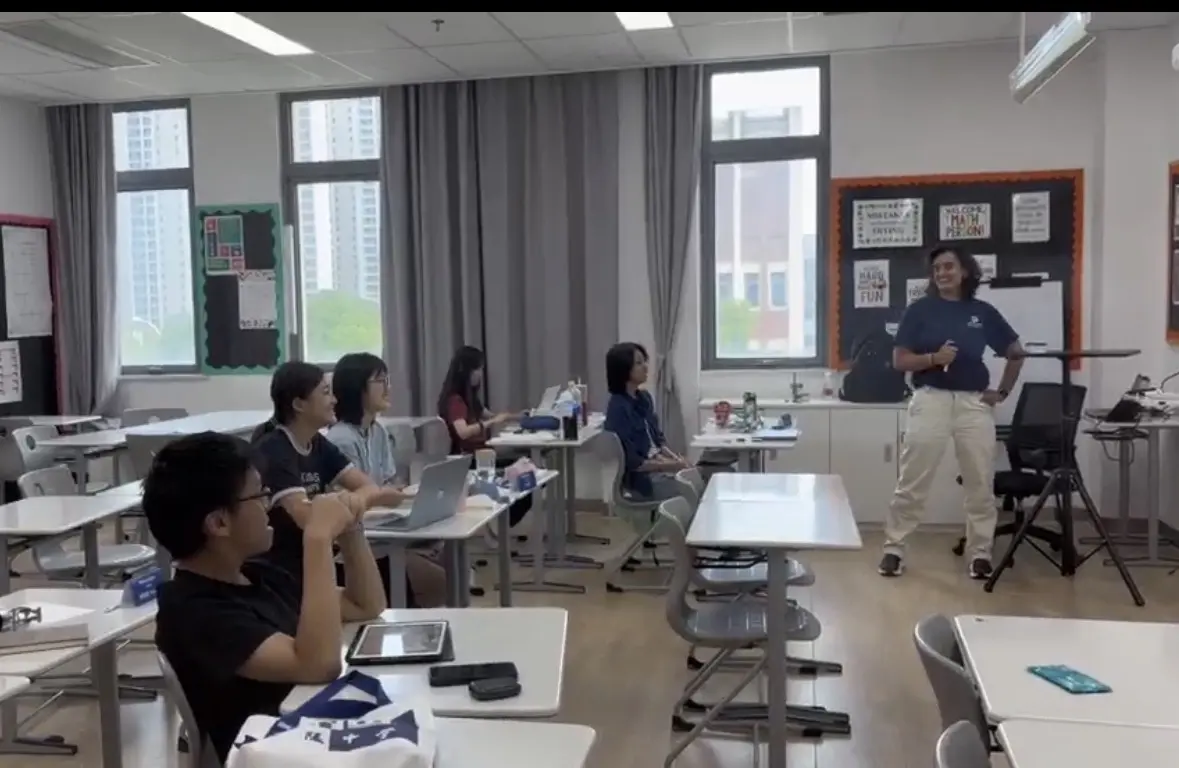
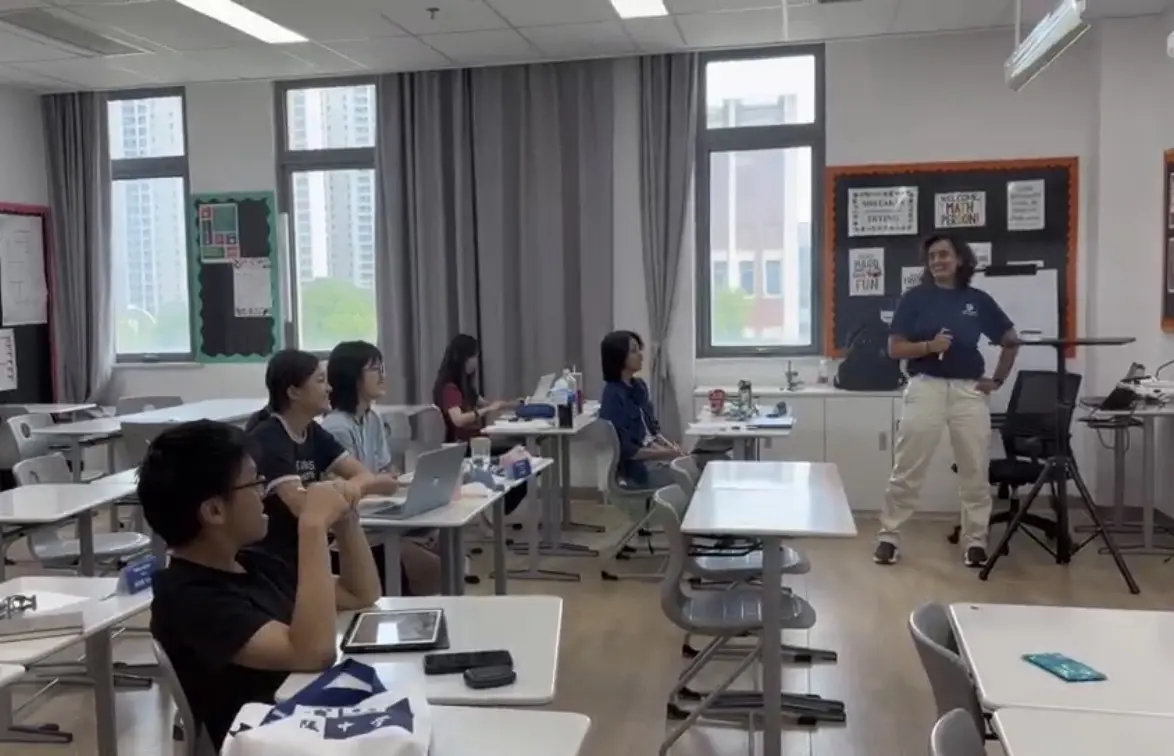
Use uncropped classroom photo on homepage

diff --git a/site.css b/site.css
@@ -48,6 +48,9 @@ body:not(.resource-page) .nav-links {
   grid-template-columns: minmax(0, 1.08fr) minmax(320px, 0.92fr);
   align-items: stretch;
   gap: 0;
+  max-width: 1040px;
+  margin-right: auto;
+  margin-left: auto;
   overflow: hidden;
   border: 1px solid var(--border);
   border-radius: var(--radius);
@@ -56,14 +59,14 @@ body:not(.resource-page) .nav-links {
 }
 
 .teaching-proof__image {
-  min-height: 430px;
+  display: flex;
+  align-items: center;
+  background: var(--cream-dark);
 }
 
 .teaching-proof__image img {
   width: 100%;
-  height: 100%;
-  object-fit: cover;
-  object-position: center;
+  height: auto;
 }
 
 .teaching-proof__content {
@@ -693,10 +696,6 @@ body:not(.resource-page) .nav-links {
     grid-template-columns: 1fr;
   }
 
-  .teaching-proof__image {
-    min-height: 380px;
-  }
-
   .article-aside {
     position: static;
     order: -1;
@@ -756,10 +755,6 @@ body:not(.resource-page) .nav-links {
 }
 
 @media (max-width: 720px) {
-  .teaching-proof__image {
-    min-height: 310px;
-  }
-
   .teaching-proof__content,
   .resource-card,
   .resource-cta {

diff --git a/index.html b/index.html
@@ -1193,10 +1193,10 @@
         <div class="teaching-proof__image">
           <img
             src="assets/classroom-teaching.webp"
-            width="1179"
-            height="768"
+            width="1174"
+            height="756"
             loading="lazy"
-            alt="Arij teaching a mathematics class"
+            alt="Arij teaching mathematics to a classroom of students"
           >
         </div>
 
